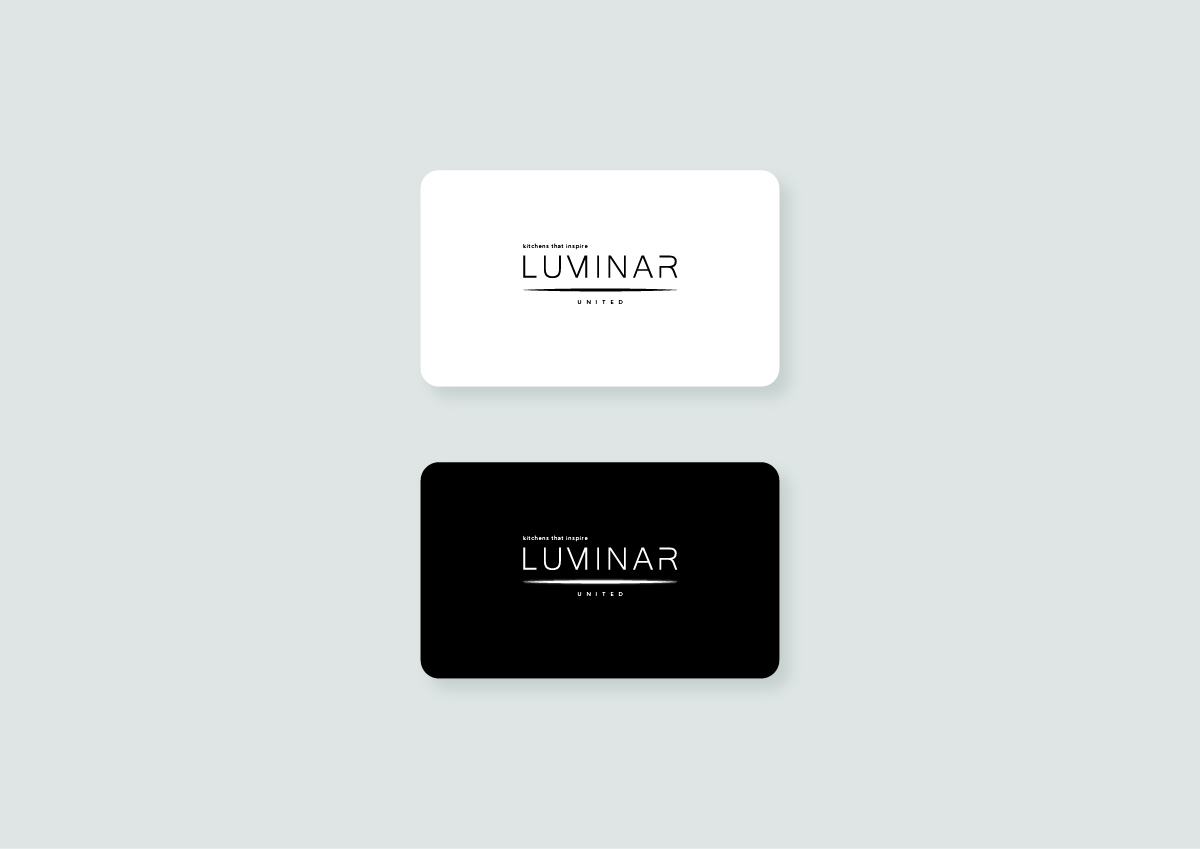
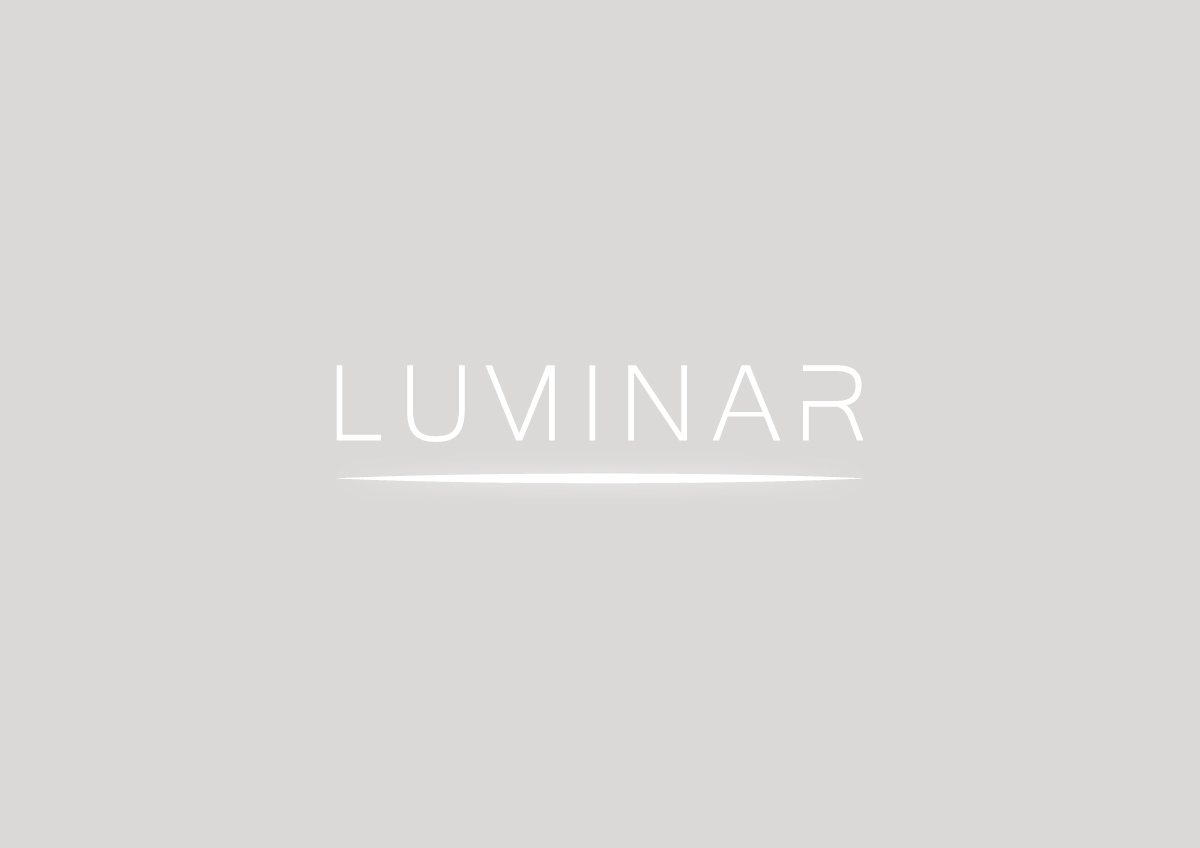
update rga

Changed region(s): [[0.3083, 0.184, 0.74, 0.8278], [0.2775, 0.4292, 0.3083, 0.5212], [0.7092, 0.4906, 0.74, 0.5212]]

diff --git a/rga/luminar.html b/rga/luminar.html
@@ -5,7 +5,7 @@
   <meta name="viewport" content="width=device-width, initial-scale=1">
   <script src="../js/pace.js"></script>
   <link href="../css/pace_minimal.css" rel="stylesheet" />
-  <title> Refrag | Sanie Irsay </title>
+  <title> Luminar | Sanie Irsay </title>
   <link rel="icon"
     type="image/png"
     href="favicon.png">
@@ -22,22 +22,21 @@
 
     <div class="column side">
       <div class="container">
-        <h4>Refrag Website</h4>
-        <h5>HTML, CSS, JavaScript</h5>
-        <h3>Website re-design and development for the fourth edition of Refrag,
-          an annual symposium exploring new connections between art, culture and technology in Paris, France.
+        <h4>Luminar</h4>
+        <h5>Logotype, Branding, Stationery Design</h5>
+        <h3>Logo and stationery designed for a high-end custom furniture and kitchen company in Toronto.
         </h3>
-        <h3>This simple one-page website provides all the information about the festival including date and time, guest speakers, schedule and description.
-          It celebrates early internet and glitch aesthetics, using simple typographic animations and bold colors.</h3>
-        <h3><em><a href="http://refrag.paris" target="_blank">www.refrag.paris</a></em></h3>
+        <h3>Building from the name Luminar (from Latin, a body that gives light, a star),
+          the identity complements the brand’s high-gloss, luxe products.</h3>
       </div>
     </div>
 
     <div class="column middle">
       <ul style="list-style-type:none">
-        <li class="singlework"><img class="nohover" src="../imgs/refrag/3.jpg"></li>
-        <li class="singlework"><img class="nohover" src="../imgs/refrag/4.jpg"></li>
-        <li class="singlework"><img class="nohover" src="../imgs/refrag/5.jpg"></li>
+        <li class="singlework"><img class="nohover" src="../imgs/luminar/1.jpg"></li>
+        <li class="singlework"><img class="nohover" src="../imgs/luminar/2.jpg"></li>
+        <li class="singlework"><img class="nohover" src="../imgs/luminar/4.jpg"></li>
+        <li class="singlework"><img class="nohover" src="../imgs/luminar/3.jpg"></li>
       </ul>
     </div>
 
@@ -46,7 +45,7 @@
   <div class="bottomnav">
     <button onclick="topFunction()" title="Back to top">Back to top</button>
     <!-- ////////////////////////////////////////////////////////////////////////CHANGE LINK -->
-    <span style="float:right;"><a href="luminar.html">Next</a></span>
+    <span style="float:right;"><a href="de_natura_rerum.html">Next</a></span>
   </div>
 
   <script src="../js/jquery.min.js"></script>

diff --git a/rga/index.html b/rga/index.html
@@ -25,14 +25,13 @@
     <ul style="list-style-type:none">
       <li><a href="toss.html"><div class="border"><img src="../imgs/thumbnails/toss.jpg"></div><p>Toss</p></a></li>
       <li><a href="mistake_magazine.html"><div class="border"><img src="../imgs/thumbnails/mistaek_magazine.jpg"></div><p>Mistaek Magazine</p></a></li>
-
       <li><a href="principium.html"><div class="border"><img src="../imgs/thumbnails/principium.jpg"></div><p>:Principium</p></a></li>
-      <li><a href="augment_monument.html"><div class="border"><img src="../imgs/thumbnails/augment.jpg"></div><p>Augment Monument</p></a></li>
-      <li><a href="inside.html"><div class="border"><img src="../imgs/thumbnails/inside.jpg"></div><p>Inside</p></a></li>
 
+      <li><a href="inside.html"><div class="border"><img src="../imgs/thumbnails/inside.jpg"></div><p>Inside</p></a></li>
+      <li><a href="augment_monument.html"><div class="border"><img src="../imgs/thumbnails/augment2.jpg"></div><p>Augment Monument</p></a></li>
       <li><a href="refragwebsite.html"><div class="border"><img src="../imgs/thumbnails/refrag.gif"></div><p>Refrag Website</p></a></li>
 
-
+      <li><a href="luminar.html"><div class="border"><img src="../imgs/thumbnails/luminar.jpg"></div><p>Luminar</p></a></li>
       <li><a href="de_natura_rerum.html"><div class="border"><img src="../imgs/thumbnails/natura_rerum.jpg"></div><p>Natura Rerum</p></a></li>
       <li><a href="parsons.html"><div class="border"><img src="../imgs/thumbnails/parsons.jpg"></div><p>Parsons Paris</p></a></li>
 

diff --git a/rga/augment_monument.html b/rga/augment_monument.html
@@ -27,11 +27,9 @@
       <div class="container">
         <h4>Augment Monument</h4>
         <h5>AR App. Unity, C#, ARKit</h5>
-        <h3> The public monument is an authoritarian device used to elevate, singularize and thus show dominant narrative.
-          The statues placed on the pedestal occupy a place of importance, power, “heroism,” whiteness and masculinity.
-          Augment Monument is conceived as a tool to anonymize something that is meant to embody the opposite –
-          it allows the user to filter out the heroes we are provided by the state, and to reclaim, even if passively, the substance of our public space.
-        </h3>
+        <h3>Can't remember the names of all the white men glorified in public spaces?</h3>
+        <h3>Meet Augment Monument - an AR tool conceived to anonymize something that is meant to embody the opposite.
+        It allows the user to filter out the heroes they do not choose, and to reclaim the substance of public space.</h3>
         <h5>Final documentation and prototyping screen recordings.</h5>
       </div>
     </div>
@@ -49,7 +47,7 @@
   <div class="bottomnav">
     <button onclick="topFunction()" title="Back to top">Back to top</button>
     <!-- ////////////////////////////////////////////////////////////////////////CHANGE LINK -->
-    <span style="float:right;"><a href="inside.html">Next</a></span>
+    <span style="float:right;"><a href="refragwebsite.html">Next</a></span>
   </div>
 
   <script src="../js/jquery.min.js"></script>

diff --git a/rga/principium.html b/rga/principium.html
@@ -40,6 +40,9 @@
         <li class="singlework"><img class="nohover" src="../imgs/principium/4.jpg"></li>
         <li class="singlework"><img class="nohover" src="../imgs/principium/5.jpg"></li>
         <li class="singlework"><img class="nohover" src="../imgs/principium/6.jpg"></li>
+        <li class="singlework"><img class="nohover" src="../imgs/principium/7.jpg"></li>
+        <li class="singlework"><img class="nohover" src="../imgs/principium/8.jpg"></li>
+        <li class="singlework"><img class="nohover" src="../imgs/principium/9.jpg"></li>
       </ul>
     </div>
 
@@ -48,7 +51,7 @@
   <div class="bottomnav">
     <button onclick="topFunction()" title="Back to top">Back to top</button>
     <!-- ////////////////////////////////////////////////////////////////////////CHANGE LINK -->
-    <span style="float:right;"><a href="de_natura_rerum.html">Next</a></span>
+    <span style="float:right;"><a href="inside.html">Next</a></span>
   </div>
 
   <script src="../js/jquery.min.js"></script>

diff --git a/rga/blog.html b/rga/blog.html
@@ -22,14 +22,6 @@
 
 <!-- WORK -->
   <div class="flex-container">
-    <div class="left"><p3>Meshes reacting to sound, using OpenFrameworks.</p3></div>
-    <div class="right"><img src="../imgs/luminar/1.jpg"></div>
-  </div>
-  <div class="flex-container">
-    <div class="left"></div>
-    <div class="right"><img src="../imgs/luminar/2.jpg"></div>
-  </div>
-  <div class="flex-container">
     <div class="left"><p3>Playing with de- and re-constructing a grid. Unity, C#.</p3></div>
     <div class="right"><div style="padding:56.25% 0 0 0;position:relative;"><iframe src="https://player.vimeo.com/video/284183923?title=0&byline=0&portrait=0" style="position:absolute;top:0;left:0;width:100%;height:100%;" frameborder="0" webkitallowfullscreen mozallowfullscreen allowfullscreen></iframe></div><script src="https://player.vimeo.com/api/player.js"></script></div>
   </div>

diff --git a/rga/parsons.html b/rga/parsons.html
@@ -53,7 +53,7 @@
   <div class="bottomnav">
     <button onclick="topFunction()" title="Back to top">Back to top</button>
     <!-- ////////////////////////////////////////////////////////////////////////CHANGE LINK -->
-    <span style="float:right;"><a href="augment_monument.html">Next</a></span>
+    <span style="float:right;"><a href="protest_field_research.html">Next</a></span>
   </div>
 
   <script src="../js/jquery.min.js"></script>

diff --git a/rga/inside.html b/rga/inside.html
@@ -42,7 +42,7 @@
   <div class="bottomnav">
     <button onclick="topFunction()" title="Back to top">Back to top</button>
     <!-- ////////////////////////////////////////////////////////////////////////CHANGE LINK -->
-    <span style="float:right;"><a href="mistake_magazine.html">Next</a></span>
+    <span style="float:right;"><a href="augment_monument.html">Next</a></span>
   </div>
 
   <script src="../js/jquery.min.js"></script>

diff --git a/rga/de_natura_rerum.html b/rga/de_natura_rerum.html
@@ -50,7 +50,7 @@
   <div class="bottomnav">
     <button onclick="topFunction()" title="Back to top">Back to top</button>
     <!-- ////////////////////////////////////////////////////////////////////////CHANGE LINK -->
-    <span style="float:right;"><a href="protest_field_research.html">Next</a></span>
+    <span style="float:right;"><a href="parsons.html">Next</a></span>
   </div>
 
   <script src="../js/jquery.min.js"></script>

diff --git a/rga/toss.html b/rga/toss.html
@@ -50,7 +50,7 @@
   <div class="bottomnav">
     <button onclick="topFunction()" title="Back to top">Back to top</button>
     <!-- ////////////////////////////////////////////////////////////////////////CHANGE LINK -->
-    <span style="float:right;"><a href="refrag.html">Next</a></span>
+    <span style="float:right;"><a href="mistake_magazine.html">Next</a></span>
   </div>
 
   <script src="../js/jquery.min.js"></script>

diff --git a/rga/style.css b/rga/style.css
@@ -509,7 +509,7 @@ ul li p{
     h4{
       padding: 0 0 0 0;
     }
-    
+
     /* FLEX */
     /* -------------------------------------------- */
     .flex-container {
